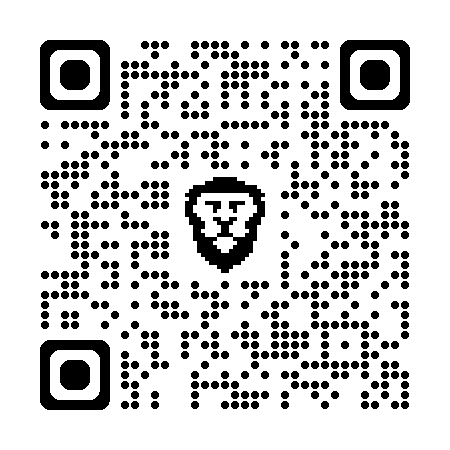
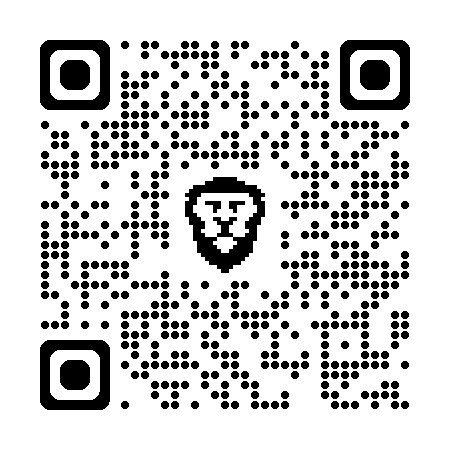
fdsa

diff --git a/src/components/footer/footer.tsx b/src/components/footer/footer.tsx
@@ -62,7 +62,7 @@ const Footer = () => {
   ]
 
   const arBooks = [
-    { text: t('arBooks.arAlphabates'), href: '/ar-books/book-001/user' },
+    { text: t('arBooks.arAlphabates'), href: '/ar' },
   ]
 
   
